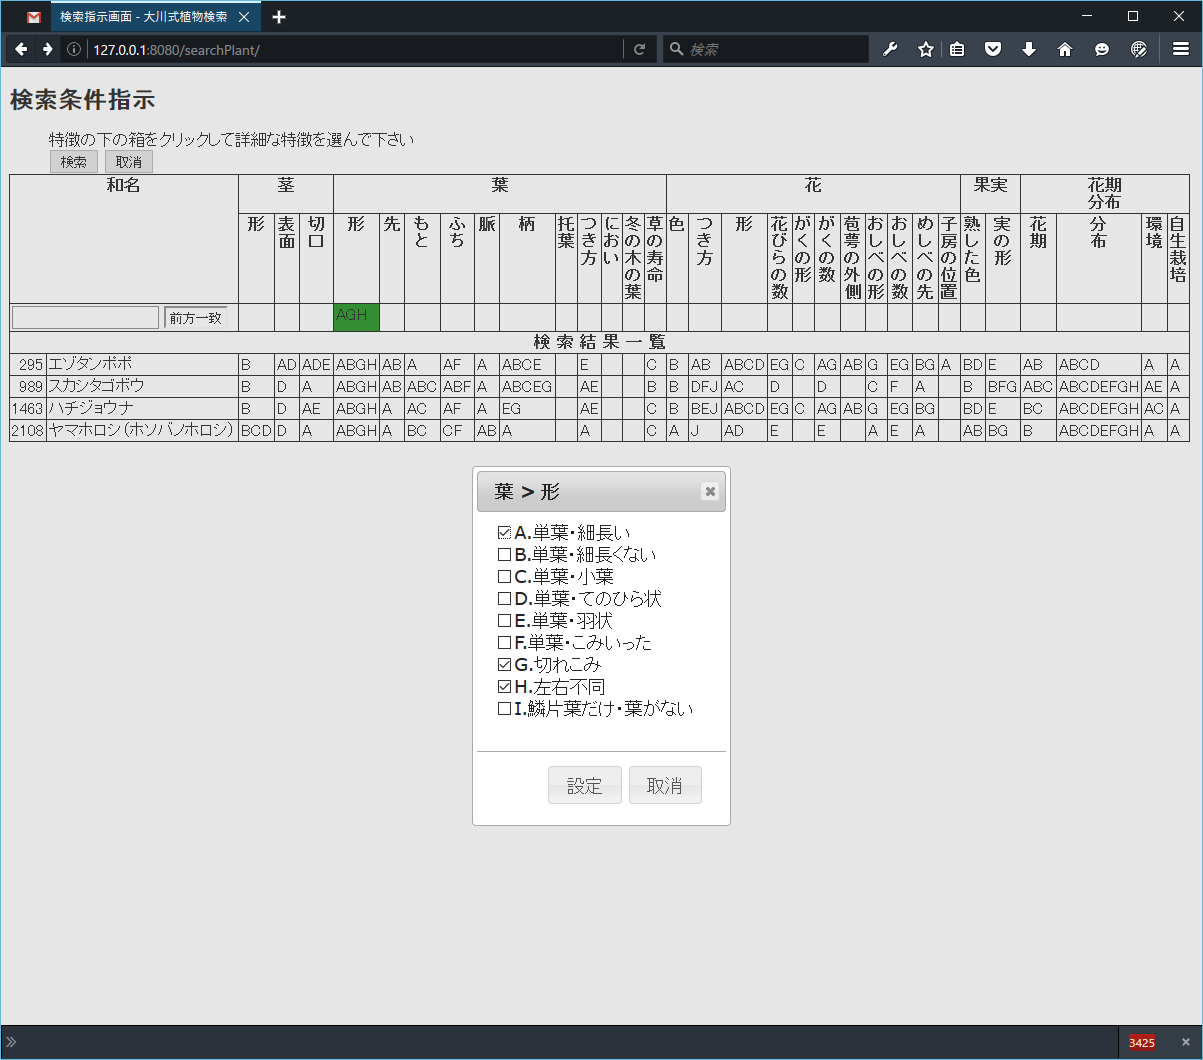
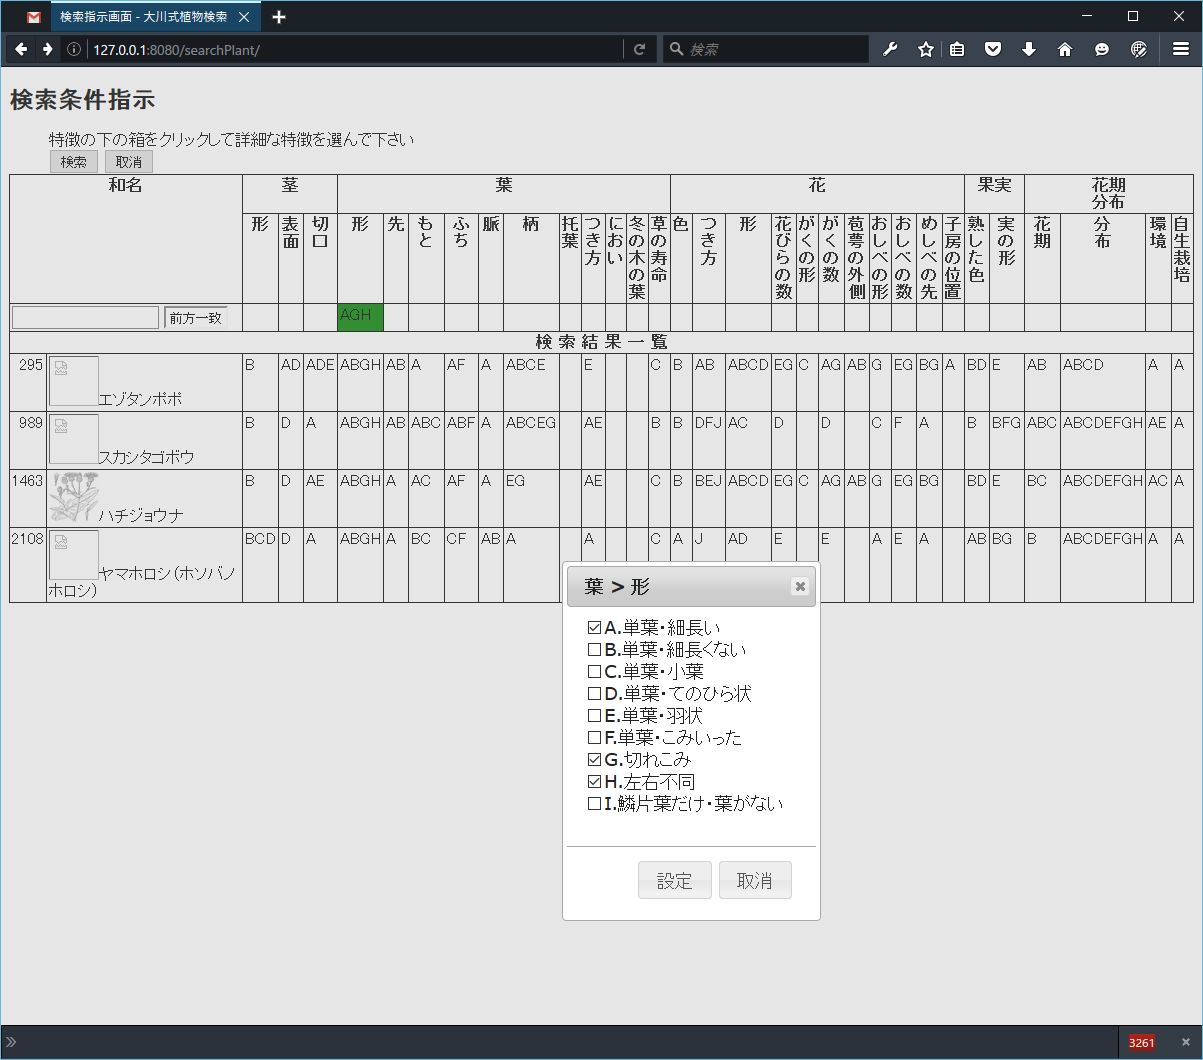
画像用のテーブルを用意 検索結果に画像を表示できるようにする img 用のURLを受けて画像を返すメソッドを追加
トランザクション変数をメソッド内で定義する（マルチスレッド対応）

diff --git a/searchPlant/html/result_list.html b/searchPlant/html/result_list.html
@@ -6,7 +6,7 @@
 {{end}}
 <tr>
 <td>{{.Lno}}</td>
-<td>{{.Name}}</td>
+<td><image src="/searchPlant/images/{{.Lno}}" width="50" height="50"/>{{.Name}}</td>
 <td>{{.AA}}</td><td>{{.AB}}</td><td>{{.AC}}</td>
 <td>{{.CA}}</td><td>{{.CB}}</td><td>{{.CC}}</td><td>{{.CD}}</td><td>{{.CE}}</td><td>{{.CF}}</td><td>{{.CG}}</td><td>{{.CH}}</td><td>{{.CI}}</td><td>{{.CJ}}</td><td>{{.CK}}</td>
 <td>{{.EA}}</td><td>{{.EB}}</td><td>{{.EC}}</td><td>{{.ED}}</td><td>{{.EE}}</td><td>{{.EF}}</td><td>{{.EG}}</td><td>{{.EH}}</td><td>{{.EI}}</td><td>{{.EJ}}</td><td>{{.EK}}</td>

diff --git a/searchPlant/sql/createPlantImage.go b/searchPlant/sql/createPlantImage.go
@@ -12,6 +12,7 @@ import (
 	"log"
 	"os"
 	"path/filepath"
+	"strings"
 
 	_ "github.com/mattn/go-sqlite3"
 )
@@ -53,6 +54,8 @@ func commit() {
 // 指定されたフォルダー以下にあるイメージファイルでファル名を和名とし持つものをすべてテーブルに登録する
 //TODO 同じ和名で複数のイメージがある場合の名前と取り込み方
 func importImageFiles(rootPath, searchPath string) {
+	var fileInfo os.FileInfo
+
 	fis, err := ioutil.ReadDir(searchPath)
 
 	if err != nil {
@@ -65,14 +68,77 @@ func importImageFiles(rootPath, searchPath string) {
 		if fi.IsDir() {
 			importImageFiles(rootPath, fullPath)
 		} else {
+			var rows *sql.Rows
+
 			rel, err := filepath.Rel(rootPath, fullPath)
 
 			if err != nil {
 				panic(err)
 			}
-			// TODO ファイル名からサフィックスを取り出し、"png"なら画像ファイルとしてテーブルに取り込む
-			// TODO ファイル名（和名）からLnoを取得する。無ければログを出して次に
-			// TODO ファイルの内容を読み込んでテーブルに登録
+			// ファイル名からサフィックスを取り出し、"png"なら画像ファイルとしてテーブルに取り込む
+			switch strings.ToLower(filepath.Ext(rel)) {
+			case ".png", ".jpg":
+				fname := rel[0 : len(rel)-4]
+				log.Printf("File(%s) is target File type base(%s)\n", rel, fname)
+
+				// ファイル名（和名）からLnoを取得する。
+				str := ""
+				str = str + "select lno from searchPlant_1 where name = ?;"
+
+				rows, err = tx.Query(str, fname)
+				if err != nil {
+					log.Fatalf("%q: '%s'\n", err, str)
+				}
+				defer rows.Close()
+
+				if rows.Next() {
+					var lno int
+					err = rows.Scan(&lno)
+					if err != nil {
+						panic(err)
+					}
+					log.Printf("lno(%d)\n", lno)
+
+					// TODO ファイルの内容を読み込んでテーブルに登録
+					file, err := os.Open(fullPath)
+					defer file.Close()
+
+					if err != nil {
+						panic(err)
+					}
+					fileInfo, err = os.Stat(fullPath)
+					if err != nil {
+						panic(err)
+					}
+					// 大きいファイルは無視する
+					if fileInfo.Size() < 100000 {
+						b := make([]byte, fileInfo.Size())
+						file.Read(b)
+						//TODO テーブルに登録
+						str = ""
+						//TODO とりあえず枝番は 1 で
+						str = str + "insert or replace into plant_image (lno, sno, image) values(?, 1, ?);"
+
+						_, err = tx.Exec(str, lno, b)
+						if err != nil {
+							log.Fatalf("%q: '%s'\n", err, str)
+						}
+					} else {
+						log.Printf("File(%s)　is too big!\n", rel)
+					}
+				} else {
+					// 無ければログを出して次に進む
+					log.Printf("file(%s) is not in database\n", fullPath)
+				}
+			/*
+
+				//TODO 一定サイズごとに読み込んでDBに書き込む
+				b := make([]byte, 1)
+				file.Read(b)
+			*/
+			default:
+				log.Printf("File(%s) is unknown File type\n", rel)
+			}
 
 			fmt.Println(rel)
 		}
@@ -80,7 +146,6 @@ func importImageFiles(rootPath, searchPath string) {
 }
 
 func main() {
-	//	var rows *sql.Rows
 	var err error
 
 	log.Println(">>>>> main in")
@@ -101,7 +166,14 @@ func main() {
 
 	begin()
 	//TODO テーブルの削除や再作成もここで行う？
+	/*
+	   -- 写真やイメージなどの取り込み用
+	   -- TODO 取り込みのためには、プログラムが必要？
+	   drop table if exists plant_image;
+	   create table if not exists plant_image (lno number, sno number, image blob, primary key(lno, sno) );
 
+
+	*/
 	importImageFiles(imageDir, imageDir)
 
 	commit()

diff --git a/searchPlant/src/searchPlant.go b/searchPlant/src/searchPlant.go
@@ -13,7 +13,9 @@ import (
 	"net/http"
 	"net/http/httputil"
 	"os"
+	"path"
 
+	"strconv"
 	"strings"
 
 	_ "github.com/mattn/go-sqlite3"
@@ -25,12 +27,13 @@ const htmlPath = "../html/"
 
 var (
 	db *sql.DB
-	tx *sql.Tx
 )
 
 var (
 	addr = flag.Bool("addr", false, "find open address and print to final-port.txt")
 )
+
+//TODO イメージはURLで返す必要があるので、 Page とは、別にした方がいい・・・と思う
 
 // Item 検索条件の情報
 type Item struct {
@@ -74,6 +77,51 @@ func search(w http.ResponseWriter, r *http.Request) {
 	httputil.DumpRequest(r, false)
 
 	renderTemplate(w, "searchPlant", page)
+}
+
+// Images 以下のURLをLnoとして該当のイメージを返す
+//TODO ここでSQLを発行してイメージを取得するほうが軽くなる？
+func getImage(w http.ResponseWriter, r *http.Request) {
+	var image []byte
+
+	//	log.Printf(">>>>> getImage in\n")
+	//	defer log.Println("<<<<< getImage out")
+
+	r.ParseForm()
+
+	//	log.Printf("%s : %s%s : Header(%s) Form(%s), len(%d)\n",
+	//		r.Method,
+	//		r.RemoteAddr,
+	//		r.URL.Path,
+	//		r.Header.Get("Content-Type"),
+	//		r.Form,
+	//		len(r.Form),
+	//	)
+
+	httputil.DumpRequest(r, false)
+
+	// URL から Lno を取得して、DBからイメージを取得、Response に返す
+	lno, err := strconv.Atoi(path.Base(r.URL.Path))
+	if err != nil {
+		log.Fatalf("%q: '%s'\n", err, r.URL.Path)
+	}
+	tx := begin()
+
+	sql := "select image from plant_image where lno = ? and sno = ?;"
+	row, err := tx.Query(sql, lno, 1)
+	if err != nil {
+		panic(err)
+	}
+	b := row.Next()
+	image = nil
+	if b != false {
+		row.Scan(&image)
+	} else {
+		log.Printf("Lno(%d) is not found\n", lno)
+	}
+	rollback(tx)
+
+	w.Write(image)
 }
 
 func result_list(w http.ResponseWriter, r *http.Request) {
@@ -213,7 +261,7 @@ where
 	str = str + sqlWhere
 	log.Printf("sql[%s]\n", str)
 
-	begin() // トランザクションの開始
+	tx := begin() // トランザクションの開始
 
 	rows, err = db.Query(str)
 	if err != nil {
@@ -262,7 +310,7 @@ where
 	}
 	rows.Close()
 
-	commit() // トランザクションの正常終了
+	commit(tx) // トランザクションの正常終了
 
 	//	httputil.DumpRequest(r, false)
 
@@ -286,21 +334,31 @@ func renderTemplate(w http.ResponseWriter, tmpl string, p *Page) {
 	}
 }
 
-func begin() {
-	var err error
+func begin() *sql.Tx {
 
 	// トランザクションの開始
-	tx, err = db.Begin()
+	tx, err := db.Begin()
+	if err != nil {
+		log.Fatal(err)
+	}
+	return tx
+}
+
+func commit(tx *sql.Tx) {
+	var err error
+
+	// トランザクションの正常終了
+	err = tx.Commit()
 	if err != nil {
 		log.Fatal(err)
 	}
 }
 
-func commit() {
+func rollback(tx *sql.Tx) {
 	var err error
 
-	// トランザクションの正常終了
-	err = tx.Commit()
+	// トランザクションの取消終了
+	err = tx.Rollback()
 	if err != nil {
 		log.Fatal(err)
 	}
@@ -328,6 +386,9 @@ func main() {
 
 	http.HandleFunc("/searchPlant/", search)
 	http.HandleFunc("/searchPlant/result_list.html", result_list)
+	//TODO イメージファイル用のURL lno をキーにしてイメージを返す。
+	http.HandleFunc("/searchPlant/images/", getImage)
+
 	//TODO 色などを変更するためにもローカルに持ちたい。以前、用いたものは、エラーとなるので要再挑戦！
 	//	http.HandleFunc("/jquery-ui-1.11.4.custom-1/", func(w http.ResponseWriter, r *http.Request) {
 	//	http.ServeFile(w, r, r.URL.Path[1:])
